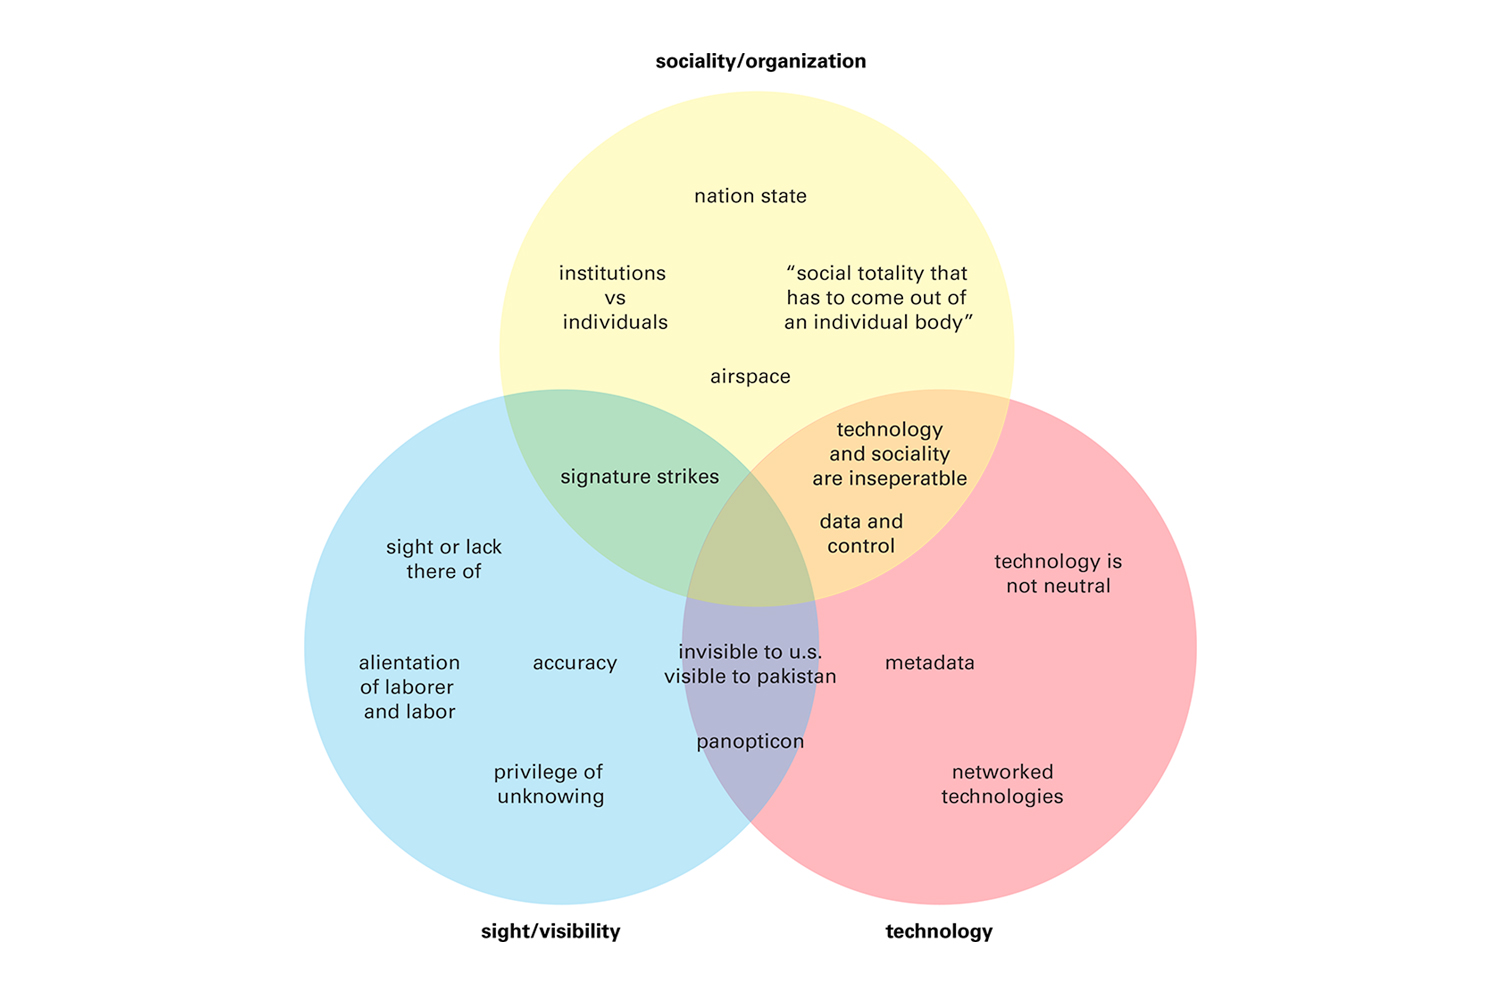
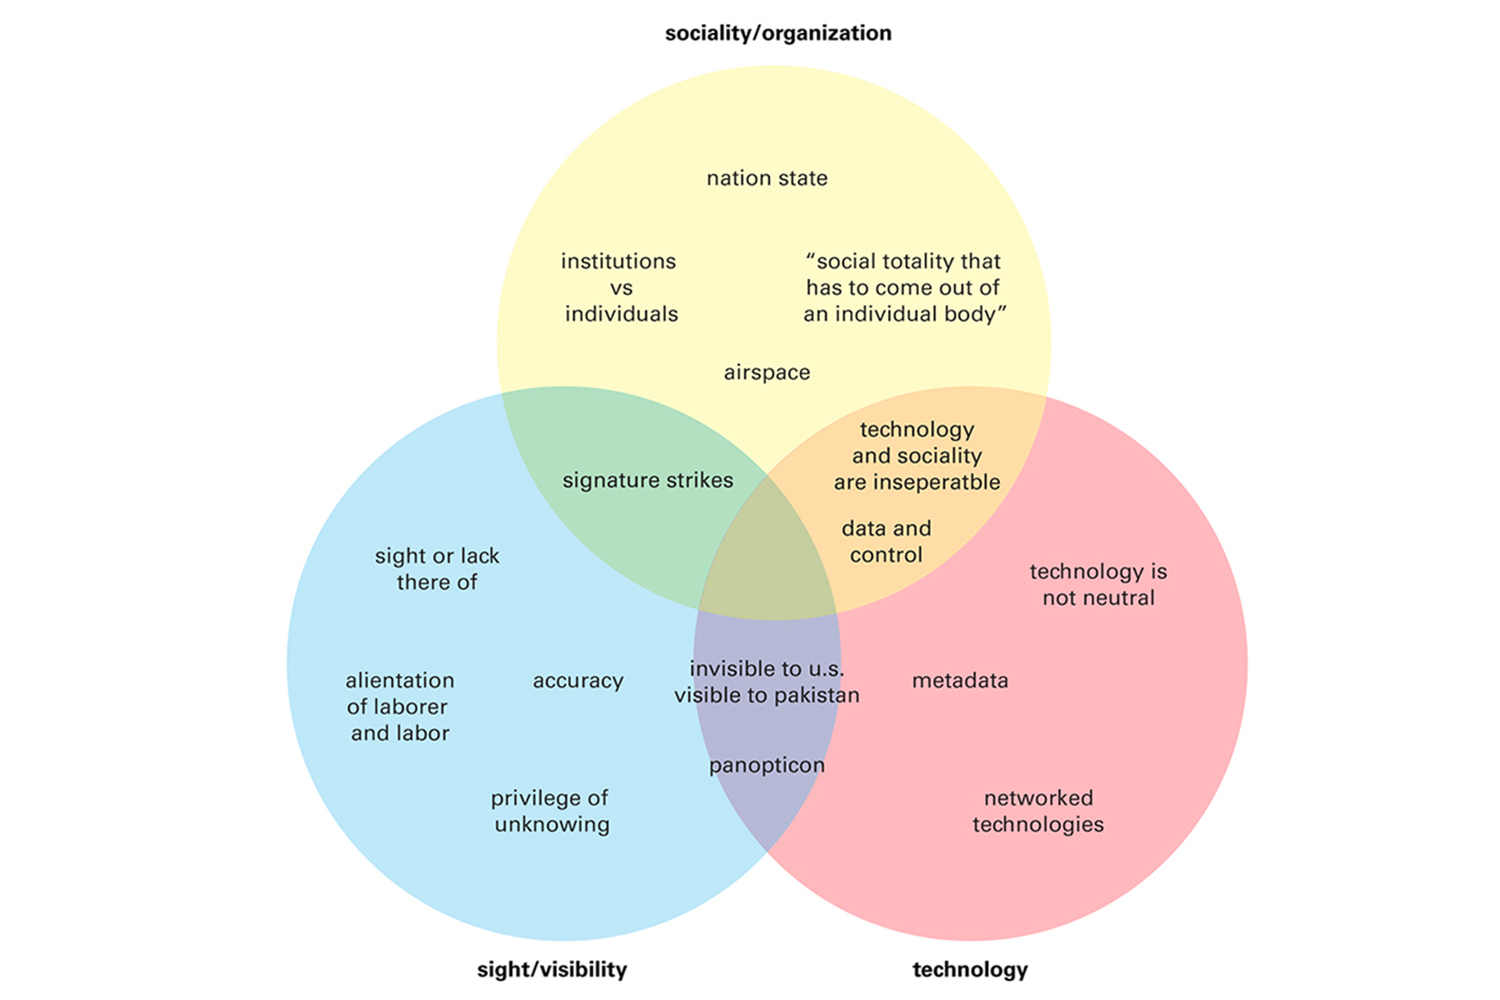
craigslist diagram

diff --git a/drone.html b/drone.html
@@ -38,6 +38,9 @@
 		<img src = "img/drone/poster2.jpg">
 
 		<p>In the U.S., drone technology lives two very different lives for consumer usage and military usage. Drones exist primarily as a niche hobby for shooting travel vlogs and other adventurous activities. Legal dialogue tends to center on regulating their presence. In the military, drones perform reconnaissance, search and rescue, surveillance, and strike missions. Cruising at high altitudes, UAVs are designed to be invisible for maximum efficacy. The U.S. military insists that drones effectively target enemies of the state, but civilians are caught in the crossfire.</p>
+
+		<img src = "img/drone/eagle.jpg" class="third margin"><img src = "img/drone/infared.jpg" class="third margin"><img src = "img/drone/toys.jpg" class="third">
+		<div class="caption">image sources: <a href="http://wibnet.nl/techniek/drones/arenden-halen-drones-uit-de-lucht-voor-politie">1</a>, <a href="http://tinhatranch.com/hide-dronesthermal-imaging">2</a></div>
 <!-- 		<img src = "img/drone/mindmap.png"> -->
 		<p>As I researched the present state of drones, I mapped out characteristics and themes that emerged.</p>
 		

diff --git a/craig.html b/craig.html
@@ -47,7 +47,7 @@
 
 		<p>I decided to explore the informal economies of the North Side and scraped craigslist for all the things that residents were selling. A lot can be learned from the things that people own. I created a catalog of posters to present the items in a more engaging manner and have viewers experience North Side through a different medium. </p>
 
-		<img src="img/craig/sheet.jpg" title="Scraped craiglist data">
+		<img src="img/craig/diagram.jpg" title="Quantifying into parameters">
 
 		<p>After scraping craigslist, I reduced each posting into the title or item being sold, the type of item, and a keyword from the title, which guided the limits of each poster. Layout was randomly selected from one of three templates, but copy and imagery were from the individual posts themselves. The typeface was based upon the category of item, and the color scheme was drawn from a Colourlovers query based on the keyword. The data collected created rules and limits for the posters themselves. The result is a visualization Pittsburgh's North Side through the items it's residents were selling.</p> 
 

diff --git a/css/test.css b/css/test.css
@@ -135,3 +135,9 @@ nav + div {
 .intro {
 	width: 75%;
 }
+
+.caption{
+	text-align: center;
+	margin-top: -1rem;
+	margin-bottom: 1rem;
+}
